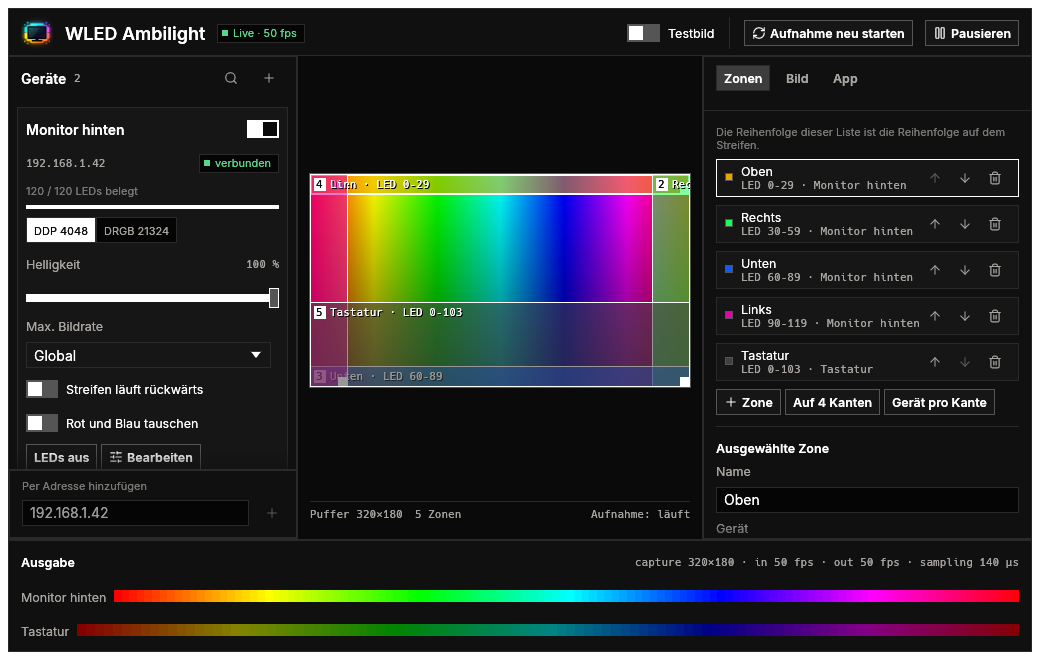
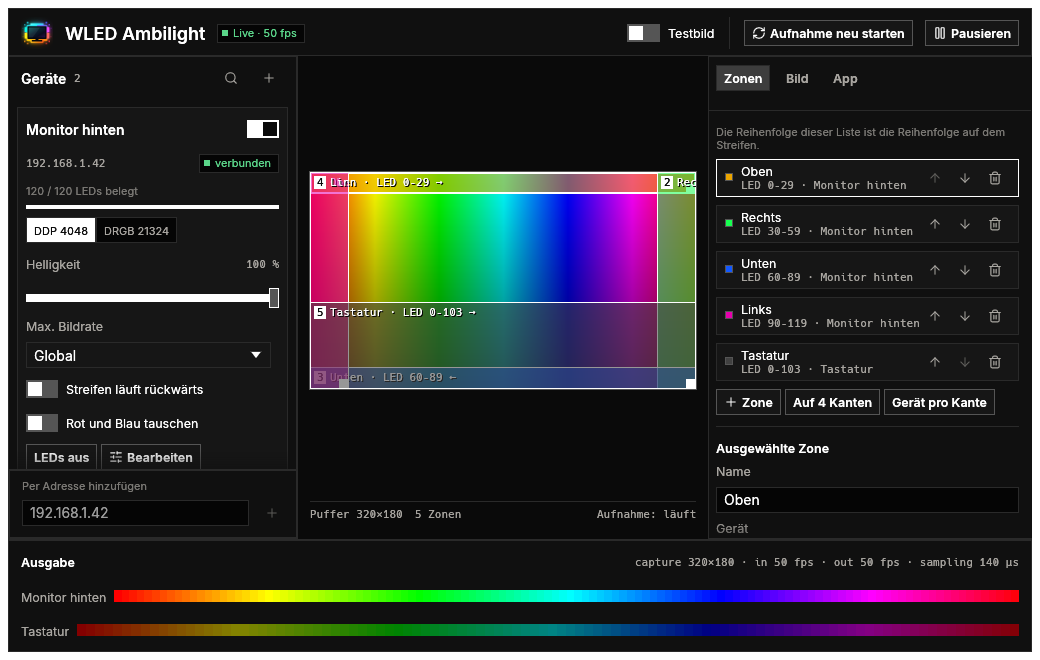
docs: Zonenrichtung im README, Bildschirmfotos neu erzeugt

Changed region(s): [[0.3077, 0.2424, 0.6769, 0.6061], [0.5538, 0.7576, 0.6769, 0.7879]]

diff --git a/README.de.md b/README.de.md
@@ -150,9 +150,12 @@ starten. Ist der Build nicht notarisiert, meldet macOS, die App „kann nicht
    Gerät auf **+** klicken. Es bekommt eine Zone mit allen LEDs an einer freien
    Bildschirmkante.
 3. **Zonen platzieren.** Für einen Streifen rund um den Bildschirm die Zone
-   auswählen und **Auf 4 Kanten** klicken. Richtung prüfen: der kleine Pfeil in
-   jeder Zone markiert LED 0. Läuft das Licht falsch herum, beim Gerät
-   **Reihenfolge umkehren** einschalten.
+   auswählen und **Auf 4 Kanten** klicken. Die vier Zonen bilden einen Ring im
+   Uhrzeigersinn ab oben links (unten und links laufen rückwärts). Richtung
+   prüfen: der Pfeil hinter dem LED-Bereich jeder Zone zeigt von LED 0 zur
+   letzten LED. Stimmt eine einzelne Seite nicht, bei dieser Zone **Richtung
+   umkehren** einschalten; läuft der ganze Streifen falsch herum, beim Gerät
+   **Streifen läuft rückwärts**.
 4. **Bild abstimmen** im Reiter *Bild*. Alles wird automatisch gespeichert.
 
 ## Begriffe
@@ -173,10 +176,12 @@ starten. Ist der Build nicht notarisiert, meldet macOS, die App „kann nicht
   Zone** auf oben, rechts, unten und links auf, nach Kantenlänge. Andere Zonen
   desselben Geräts bleiben unangetastet; eine Zone mit fester erster LED behält
   ihren Platz auf dem Streifen.
-- **Waagerecht / senkrecht** – waagerechte Zonen laufen links → rechts,
-  senkrechte oben → unten. Ist ein Streifen andersherum verkabelt, wird das pro
-  Gerät mit **Reihenfolge umkehren** korrigiert (spiegelt den ganzen
-  Streifen inklusive der Reihenfolge aufgeteilter Zonen).
+- **Waagerecht / senkrecht, Richtung** – waagerechte Zonen laufen links →
+  rechts, senkrechte oben → unten. **Richtung umkehren** dreht eine einzelne
+  Zone um (rechts → links, unten → oben) und ist unabhängig von *Senkrecht*:
+  ein Streifen im Ring läuft an einer Seite hinunter und an der anderen hinauf.
+  **Streifen läuft rückwärts** beim Gerät spiegelt dagegen den ganzen Streifen
+  samt Reihenfolge der Zonen.
 - **Aufnahmeauflösung** – der Bildschirm wird auf einen kleinen Puffer
   verkleinert (Standard 320 px breit). Das ist die Genauigkeit der Zonen; höhere
   Werte erlauben feinere Zonen und kosten etwas mehr CPU.

diff --git a/README.md b/README.md
@@ -142,9 +142,12 @@ is not notarised, macOS says the app “cannot be checked”: right-click the ap
    **+** next to a device. It gets one zone with all its LEDs on a free
    screen edge.
 3. **Place the zones.** For a strip running around the screen select its
-   zone and click **Split to 4 edges**. Check the direction: the small chevron
-   in each zone marks LED 0. If the light runs the wrong way, switch on
-   **Reverse order** for the device.
+   zone and click **Split to 4 edges**. The four zones form one loop clockwise
+   from the top left (bottom and left run backwards). Check the direction: the
+   arrow next to each zone's LED range points from LED 0 to its last LED. If a
+   single side is wrong, switch on **Reverse direction** for that zone; if the
+   whole strip runs the wrong way, switch on **Strip runs backwards** for the
+   device.
 4. **Tune the picture** on the *Picture* tab. Settings are saved automatically.
 
 ## Concepts
@@ -155,10 +158,11 @@ is not notarised, macOS says the app “cannot be checked”: right-click the ap
   the order on the strip** (`LED 0–36`, `LED 37–58`, …). The LED count of a
   zone is independent of its size: the rectangle is cut into equal cells, one
   per LED, and each cell is averaged.
-- **Horizontal / vertical** – horizontal zones run left → right, vertical
-  zones top → bottom. A strip that is wired the other way round is fixed per
-  device with **Reverse order** (this mirrors the whole strip, including
-  the order of split zones).
+- **Horizontal / vertical, direction** – horizontal zones run left → right,
+  vertical zones top → bottom. **Reverse direction** flips one zone (right →
+  left, bottom → top) and is independent of *Vertical*: a strip in a loop runs
+  down one side and up the other. **Strip runs backwards** on the device
+  mirrors the whole strip instead, including the order of the zones.
 - **LED block** – the section of the strip a zone drives. It sits on the
   *Zones* tab under *First LED*: the number field or the `−10 −1 +1 +10`
   buttons move it along the whole strip, `Auto` packs the zone behind the one
